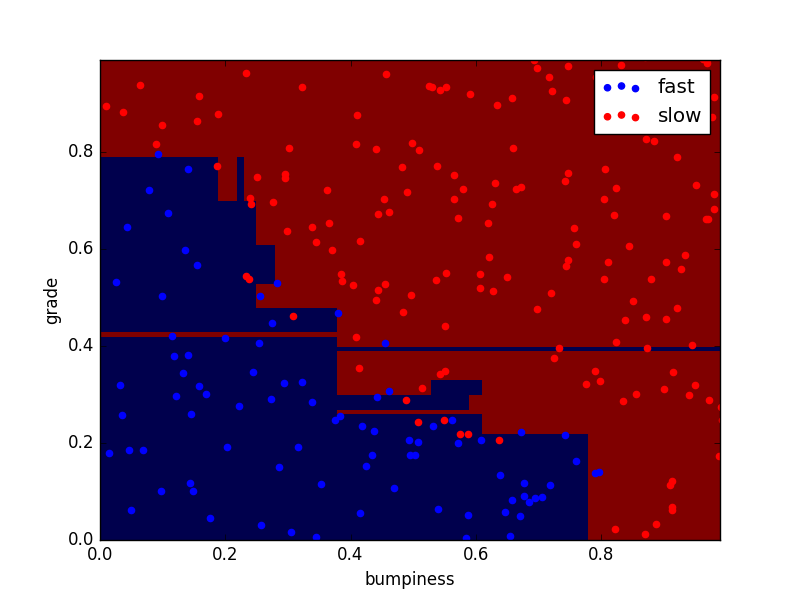
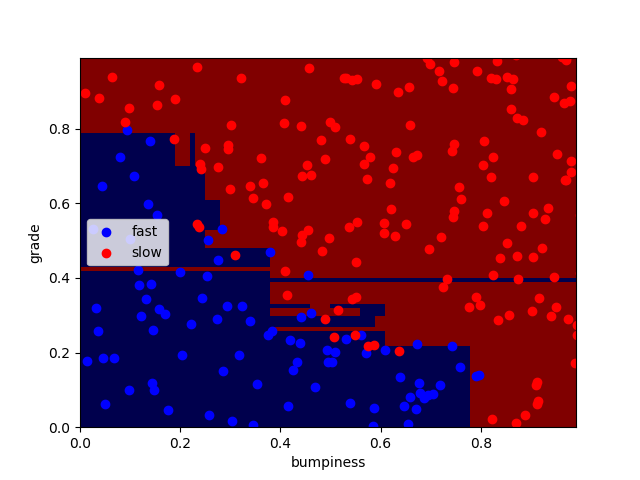
mini_4

diff --git a/Intro_to_Machine_Learning/Lesson4_Decision_Trees/Intro_Decision_Trees.py b/Intro_to_Machine_Learning/Lesson4_Decision_Trees/Intro_Decision_Trees.py
@@ -18,16 +18,27 @@ features_train, labels_train, features_test, labels_test = makeTerrainData()
 
 ### the classify() function in classifyDT is where the magic
 ### happens--fill in this function in the file 'classifyDT.py'!
-clf = classify(features_train, labels_train)
-
-pred = clf.predict(features_test)
-
+from sklearn import tree
 from sklearn.metrics import accuracy_score
-acc = accuracy_score(pred, labels_test)
+print '***********GINI***********'
+for i in range(2,100):
+	clf = tree.DecisionTreeClassifier(min_samples_split = i, criterion='gini')
+	clf.fit(features_train, labels_train)
+	pred = clf.predict(features_test)
+	acc = accuracy_score(pred, labels_test)
 
-print acc
+	print i, ' | ', acc
 
+print '***********ENTROPY***********'
+for i in range(2,100):
+	clf = tree.DecisionTreeClassifier(min_samples_split = i, criterion='entropy')
+	clf.fit(features_train, labels_train)
+	pred = clf.predict(features_test)
+	acc = accuracy_score(pred, labels_test)
+
+	print i, ' | ', acc
+'''
 #### grader code, do not modify below this line
-
 prettyPicture(clf, features_test, labels_test)
 output_image("test.png", "png", open("test.png", "rb").read())
+'''

diff --git a/Intro_to_Machine_Learning/ud120-projects-master/decision_tree/dt_author_id.py b/Intro_to_Machine_Learning/ud120-projects-master/decision_tree/dt_author_id.py
@@ -21,10 +21,24 @@ features_train, features_test, labels_train, labels_test = preprocess()
 
 
 
-
+print len(features_train[0])
 #########################################################
 ### your code goes here ###
+from sklearn import tree
+from sklearn.metrics import accuracy_score
 
+clf = tree.DecisionTreeClassifier(min_samples_split = 40)
+t0 = time()
+clf.fit(features_train, labels_train)
+print "training time:", round(time()-t0, 3), "s"
+
+t0 = time()
+pred = clf.predict(features_test)
+print "pred time:", round(time()-t0, 3), "s"
+
+acc = accuracy_score(pred, labels_test)
+
+print acc
 
 #########################################################
 

diff --git a/Intro_to_Machine_Learning/Lesson3_SVM/intro_svm.py b/Intro_to_Machine_Learning/Lesson3_SVM/intro_svm.py
@@ -28,8 +28,8 @@ print "training time:", round(time()-t0, 3), "s"
 
 #### store your predictions in a list named pred
 t0 = time()
-prediction = clf.predict(features_test)
-print "prediction time:", round(time()-t0, 3), "s"
+pred = clf.predict(features_test)
+print "pred time:", round(time()-t0, 3), "s"
 
 from sklearn.metrics import accuracy_score
 acc = accuracy_score(pred, labels_test)
